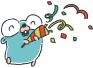
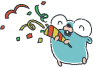
[easteregg] Make Gopher has party popper to shot off confetti on click

diff --git a/src/components/organisms/SpeakersSection/index.tsx b/src/components/organisms/SpeakersSection/index.tsx
@@ -3,7 +3,7 @@ import Link from 'next/link'
 import { Box, Typography } from '@mui/material'
 import { Button } from 'src/components/atoms'
 import { useTranslation } from 'react-i18next'
-import { Colors } from 'src/styles/color'
+import { Colors, confettiColors } from 'src/styles/color'
 import {
   GopherConductor,
   GopherDrummer,
@@ -15,10 +15,17 @@ import {
 } from 'src/images/gopher'
 import Image from 'next/image'
 import { useSize } from 'src/modules/hooks'
+import { useReward } from 'react-rewards'
 
 export const SpeakersSection: FC = () => {
   const { t } = useTranslation()
   const { isTabletOrOver } = useSize()
+  const { reward } = useReward('confettiGopherPopper', 'confetti', {
+    angle: 135,
+    colors: confettiColors,
+    position: 'absolute',
+    startVelocity: 20
+  })
 
   return (
     <Box
@@ -52,7 +59,10 @@ export const SpeakersSection: FC = () => {
           <Box display="flex" alignItems="flex-end" gap={0.5}>
             <Image src={GopherFlowerBlue} alt="gopher flower blue" />
             <Image src={GopherFlowerPink} alt="gopher flower pink" />
-            <Image src={GopherPartyPopper} alt="gopher party popper" />
+            <Box onClick={reward} sx={{ '&:hover': { cursor: 'pointer' } }}>
+              <span id="confettiGopherPopper" />
+              <Image src={GopherPartyPopper} alt="gopher party popper" />
+            </Box>
           </Box>
         )}
       </Box>
